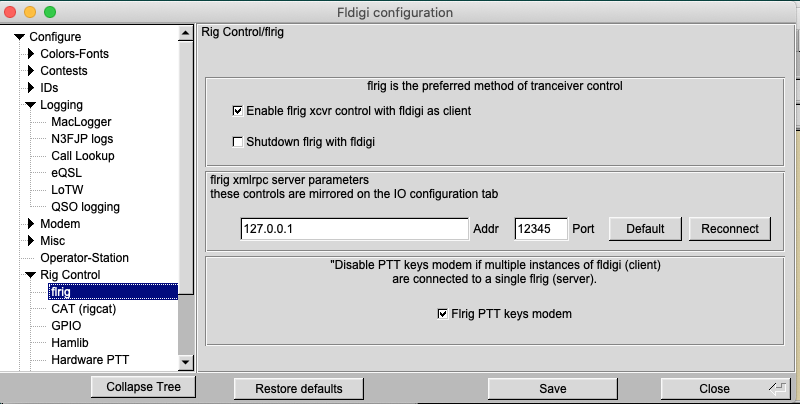
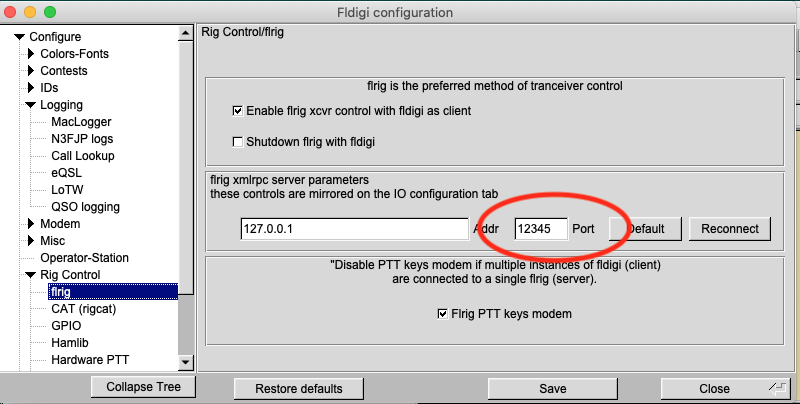
Updated README

Changed region(s): [[0.5938, 0.505, 0.7812, 0.6535], [0.625, 0.4752, 0.7812, 0.5347], [0.7812, 0.5347, 0.8125, 0.5941]]

diff --git a/README.md b/README.md
@@ -1,174 +1,81 @@
 #Cat-relay
 
 ## About
-Cat-relay is a tool to change your SDR into a band scope/panadapter
+Cat-relay is a tool to turn your SDR into a band scope/panadapter
 for your radio. It does this by synchronizing the frequencies and modes
 of your SDR software and your radio transceiver.
 
+## Download
+Please go to [Release Page](https://github.com/n2iw/cat-relay/releases) to download latest version of Cat-relay. 
+Mac and Windows versions don't require any installation, you can unzip it and double click to run.
+
 ## Supported platforms and software
-Cat-relay is written in Python3 and can run on Mac, Windows and Linux. However, the main use case is running SDR++ 
-(cross-platform) with RUMlogNG or Flrig on MacOS or DXLab Commander on Windows. 
+Cat-relay was written in Python3 and can run on Mac, Windows and Linux. 
+Ready to use executable files are provided for Mac and Windows platforms.
 
-Cat-relay may work with other SDR software if the SDR provides a
-Hamlib/Rigctl compatible TCP server. Cat-relay should work with other
-logging software and rig control software if they provide one of two interfaces:
+Currently, Cat-relay mainly supports one SDR software - SDR++ (cross-platform). However, Cat-relay may work with other SDR software if they provide a
+Hamlib/Rigctl compatible TCP server.
 
-* A DXLab Commander compatible TCP server. RUMlogNG provides one of
-  these if it is controlling the radio itself.
-* A rig control server that uses an XML/RPC interface such as Flrig.
+Cat-relay supports following radio control software:
+* RUMlogNG (Mac)
+* Flrig (cross platform)
+* DXLab Commander (Windows)
+* N1MM+ (Windows) 
 
-At this moment, only SDR++, RUMlogNG, DXLab Commander, and Flrig are
-tested. MacLoggerDX will also work, except changing modes on SDR is not supported by MacLoggerDX. 
+Cat-relay may also work with other radio control software if they provide one of two interfaces:
+* A DXLab Commander compatible TCP interface. 
+* A Flrig compatible XML/RPC server.
 
+At this moment, only SDR++, RUMlogNG, DXLab Commander, Flrig and N1MM+ are
+tested. MacLoggerDX may also work, except changing modes on SDR is not supported by MacLoggerDX. 
 
-##  How cat-relay works
-Cat-relay can work with two
-different types of transceiver-computer setups (see figure below):
+## Settings
+To change settings, click the "Setting" button on the main window. 
 
-1. **Logger-controlled radio:** A logging software app like DXLabs Commander or
-   RUMlogNG connects directly to the transceiver using a CAT
-   interface. The logger interacts with all other applications wanting
-   to control the radio.
-2. **Server-controlled radio:** A rig control server app like Flrig connects to the
-radio using a CAT interface. All other programs wishing to control the
-transceiver talk to the rig control server.
+ ![Settings](resources/settings.png "Settings")
 
-![Cat-relay configurations](resources/cat-relay configurations.png
- "Cat-relay configurations diagram")
+Most settings are self-explanatory. Here are some useful tips: 
 
-You can configure which configuration you are using in the file config.yml through the setting of the variable LOGGER_MODE. At present, it can have three possible values:
+### 1. Match the ports
+Make sure "SDR Port" matches the port number in SDR++'s "Rigctl Server" panel. 
+ ![SDR++ settings](resources/SDR++-settings.png "SDR++ settings") 
 
-1. **`dxlab`:** Set LOGGER_MODE to `dxlab` to run cat-relay in a logger-controlled radio configuration.
-2. **`flrig`:** Set LOGGER_MODE to `flrig` to run cat-relay in a server-controlled radio configuration.
-3. **`wb:`** The value `wb` appears to configure cat-relay to interact with an undocumented/unsupported N1MM+ configuration.
+Make sure "CAT Port" matches the port number in your radio control software.
 
-Cat-relay reads frequencies and modes from SDR and the application
-controlling your transceiver every 50ms (configurable), and synchronizes them if either
-of them changes. Cat-relay, SDR, logging software, and Flrig can run on the same computer or different computers in the same local
-network.
+ ![RUMlogNG settings](resources/RUMlogNG-settings.png "RUMlogNG settings")
+ ![Commander settings](resources/DXLab-Commander-settings.png "RUMlogNG settings")
+ ![Flrig server config screen](resources/Flrig-server-config-screen.png "Flrig Server config screen") 
+ ![N1MM+ settings](resources/N1MM-settings.png "N1MM settings")
 
-## 1. Logger-controlled Radio Configuration
-A logger-controlled radio configuration is just what its name implies: a logger program such as DXLabs Commander or RUMlogNG has direct control of your transceiver via a serial or USB CAT interface. This type of configuration is often used in contesting where the logger program sends and receives pre-programmed CW, voice, or RTTY exchanges. Should any other computer programs want access to the transceiver, they request those operations through the logging program.
+If you use N1MM+, make sure "Radio Info Port" matches the "radio" port in N1MM+'s "Broadcast Data" configuration page. 
+For example, if the "radio" box has "127.0.0.1:12060", put "12060" in Cat-relay's "Radio Info Port" box.
 
-When we are running using a logger-controlled ration configuration, cat-relay's job is to synchronize the frequencies and modes between SDR++ and the logging program.
+ ![N1MM+ Broadcast settings](resources/N1MM-radio-info.png "N1MM+ Broadcast settings")
 
-### Settings
-To set up your shack for logger-controlled operation, you should:
+### 2. Put in the correct addresses
+If you run all the software on the same computer (most people do), keep "SDR running on" and "CAT running on" as "This computer". 
+If you run some software on another computer, then make sure you choose "Another computer", and put in the correct IP address.
+   
+### 3. Reconnect Time
+Number of seconds before retry a failed connection. The default (10 seconds) should work fine for most people. 
 
-1. Configure DXLabs Commander or RUMlogNG to control your radio using CAT control through either a serial or USB port.
-2. Set "DxLab Suite Commander" to "Start" in RUMLogNG Settings. If you are using DXLab Commander, it's enabled by default. You can change the DX Commander port (52002) by clicking "Net Serv" button in "General" tab.
+### 4. Sync Interval
+Number of seconds between Cat-relay syncs your SDR and radio. The default (0.1 seconds) should work fine for most people. 
+Increase this number if you notice your computer is not very responsive. It is not recommended to set this to less than 0.05.
 
-    ![RUMlogNG settings](resources/RUMlogNG-settings.png "RUMlogNG settings")
-    ![Commander settings](resources/DXLab-Commander-settings.png "RUMlogNG settings")
+## Run from source code
+For Mac and Windows users, please go to [Release Page](https://github.com/n2iw/cat-relay/releases) to download latest version of Cat-relay.
+If you are using Linux or you prefer running source code, here are some steps you can follow.
 
-3. Check Tuning under "Rigctl Server" in the left-hand menu on SDR++. I typically also check "Listen on Startup" so I don't have to set this every time I run SDR++.
-
-    ![SDR++ settings](resources/SDR++-settings.png "SDR++ settings") 
-
-4. Modify the file config.yaml as follows:
-   - Set the variable Logger_Mode to `DXLab`
-	- Set the Logger_IP variable in config.yml to the IP address for DXLabs Commander or RUMLogNG. If you are running those programs on the same computer, the address 127.0.0.1 will work just fine.
-	- Set the Logger_PORT variable in config.yml to 5555 for RUMlogNG or 52002 if you are using DXLabs Commander. 
-	- If you have modified the server ports your logger is listening on, ensure that Logger_PORT matches the port number you set.
-
-Once you've made all these changes, ensure that your logger and SDR++ are running before starting cat-relay as described below in the section "How to run".
-
-
-### Mode mapping
-Most common modes such as CW, USB, LSB, AM, and FM are supported in SDR++ and loggers such as RUMlogNG and DXLab Commander and should work properly without modification.
-Some modes, however, are only supported in just the SDR or in the radio. For example, my radio (TS-590SG) reports RTTY mode, which SDR++ doesn't support. To address this inconsistency, I've built in the following mappings which should also suit many other users. Should you wish to use different mappings, you can change those mappings in the module `cat_client.py` by modifying the dictionary ALTERNATIVE_MODES.
-
-The mappings as distributed are:
-
-- RTTY mode (from radio) is mapped to USB mode on the SDR.
-- WFM mode (from SDR++) will be mapped to FM mode on the radio.
-- RAW mode (from SDR++) will not be supported.
-- DSB mode (from SDR++) will not be supported.
-
-
-## 2. Server-Controlled Radio Configuration
-A server-controlled radio configuration allows multiple computer applications to control your radio at once. This type of configuration is particularly useful when you have to use an external modem application such as `Fldigi` or `WSJTX` to encode and decode digital signals while still using RUMlogNG or DXlabs Commander to do logging.
-
-Below you can see a screen shot of SDR++, Fldigi, Flrig, and RUMlogNG running while cat-relay synchronizes their frequencies and modes.
-
-![Server-controlled configuration screen shot](resources/rig-server-screen-shot.png "Server-controlled configuration screen shot")
-
-The following directions will help you set up cat-relay to use the program `flrig` as the transceiver server and to synchronize its frequencies and modes with SDR++.
-
-#### Settings
-To set up your shack for server-controlled operation, you should:
-
-1. Configure flrig to run and control your radio using CAT control through either a serial or USB port.
-
-    ![Flrig CAT settings](resources/Flrig-CAT-config.png "Flrig CAT Settings") 
-
-2. Check to ensure that Flrig is listening for XML/RPC connections on port 12345.
-
-    ![Flrig server config screen](resources/Flrig-server-config-screen "Flrig Server config screen") 
-
-3. Configure RUMlogNG to use flrig for its transceiver control. This requires setting Manufacturer to "Other", Type to "flrig", Interface to "TCP", Host to "127.0.0.1", and Port to "12345".
-
-    ![RUMlogNG settings](resources/RUMlogNG-flrig-settings.png "RUMlogNG settings")
-
-4. Check Tuning under "Rigctl Server" in the left-hand menu on SDR++. I typically also check "Listen on Startup" so I don't have to set this every time I run SDR++.
-
-    ![SDR++ settings](resources/SDR++-settings.png "SDR++ settings") 
-
-5. Modify config.yml as follows: 
-     - Logger_Mode: flrig
-     - RADIO_FLRIG_IP: 127.0.0.1
-     - RADIO_FLRIG_PORT: 12345
-
-Once you've made all these changes, ensure that flrig and SDR++ are running before starting cat-relay as described below in the section "How to run".
-
-### Mode mapping
-Just as in the case of a logger-controlled radio, some radio modes are not supported by SDR++ and vice versa. Further, when running digital modes, you may find it desirable to tell your transceiver to use its DATA connection for input and to mute the microphone. What this means is that we have to do two types of mode mapping: one to translate SDR modes into those for the transceiver, and another to map transceiver modes into SDR ones.
-
-To perform this mapping, the module flrig.py (the module that talks to the flrig radio server) has two dictionaries named SDR_TO_RADIO and RADIO_TO_SDR. The mode translations included are appropriate for the modes offered in an Icom IC-7100; you may have to change them for your own use. If you do a lot more voice work than digital, for example, you probably want to change SDR_TO_RADIO mappings for the voice modes to not use DATA mode (i.e., change the entry USB:USB-D to USB:USB and LSB:LSB-D to LSB:LSB).
-
-The distributed mappings are as follows:
-
-    RADIO_TO_SDR = {
-     'LSB':'LSB',
-     'USB':'USB',
-     'AM':'AM',
-     'CW':'CW',
-     'RTTY':'USB',
-     'FM':'NFM',
-     'WFM':'WFM',
-     'CW-R':'CW',
-     'RTTY-R':'USB',
-     'DV':'NFM',
-     'LSB-D':'LSB',
-     'USB-D':'USB',
-     'AM-D':'AM',
-     'FM-D':'NFM'
-    }
-
-    SDR_TO_RADIO = {
-    'LSB':'LSB-D',
-    'USB':'USB-D',
-    'AM':'AM-D',
-    'DSB':'AM',
-    'NFM':'FM',
-    'WFM':'WFM',
-    'CW':'CW',
-    'RAW':'USB'
-    }
-
-
-## Dependencies
+### How to install dependencies
 Cat-relay uses only one 3rd party libraries (pyyaml). To install it, open a terminal, go to the folder that contains cat-relay, 
 and run following command:
 
 ```pip3 install -r requirements.txt```
 
-## How to run
+### How to run source code
 Open a terminal, go to the folder that contains cat-relay, and run following command:
 
-```python3 listen.py```
+```python3 app.py```
 
 Don't close the terminal window, you can minimize it if you'd like to.
-
-## How to quit
-Open the terminal window that cat-relay is running in and press Ctrl+C.
